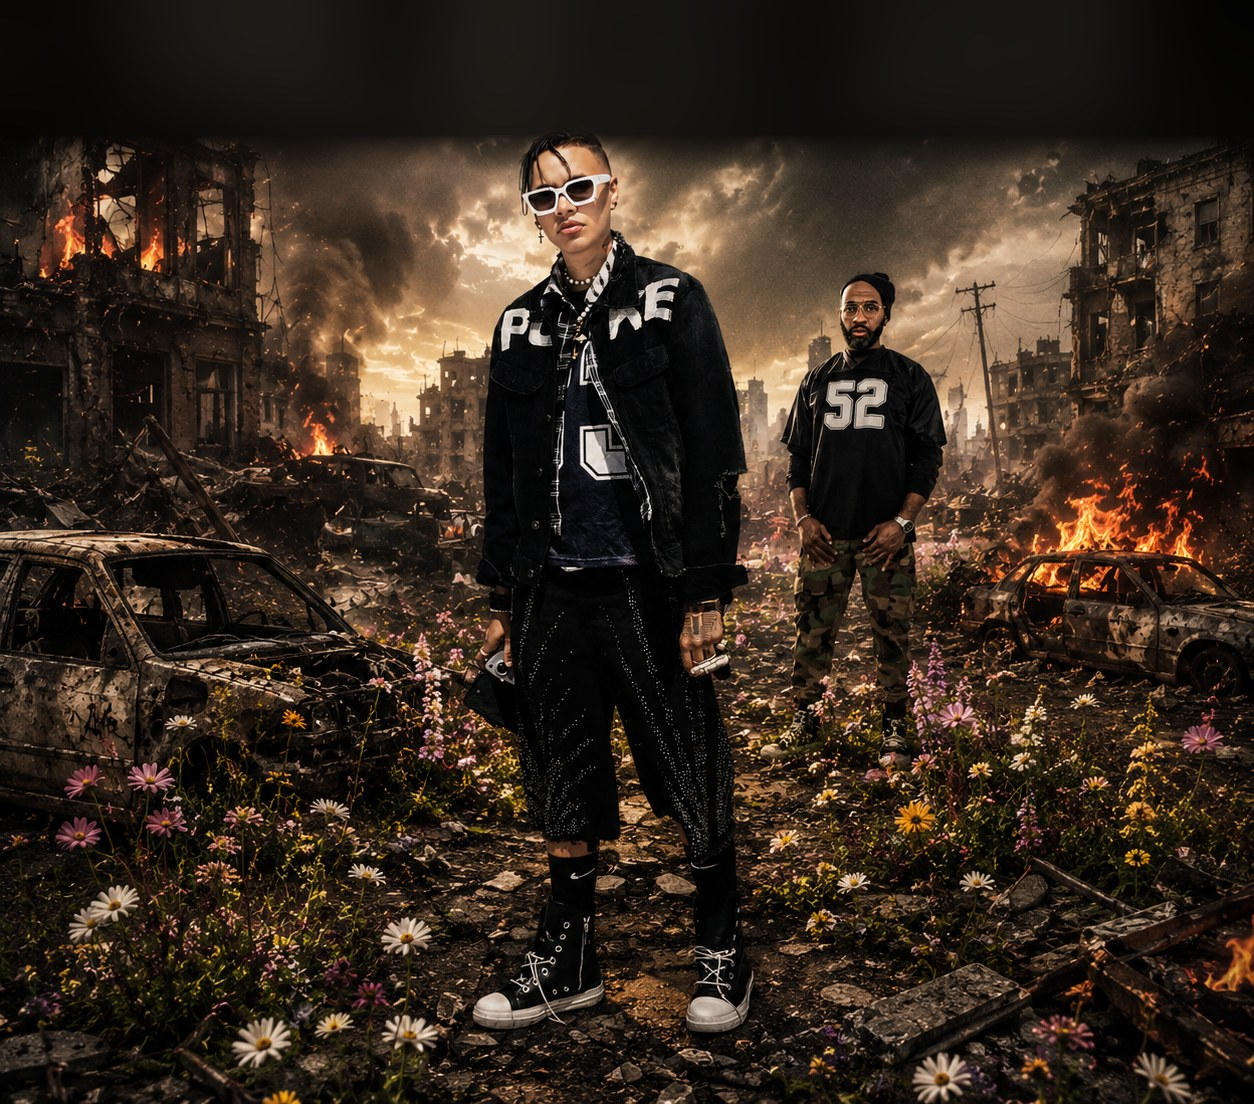
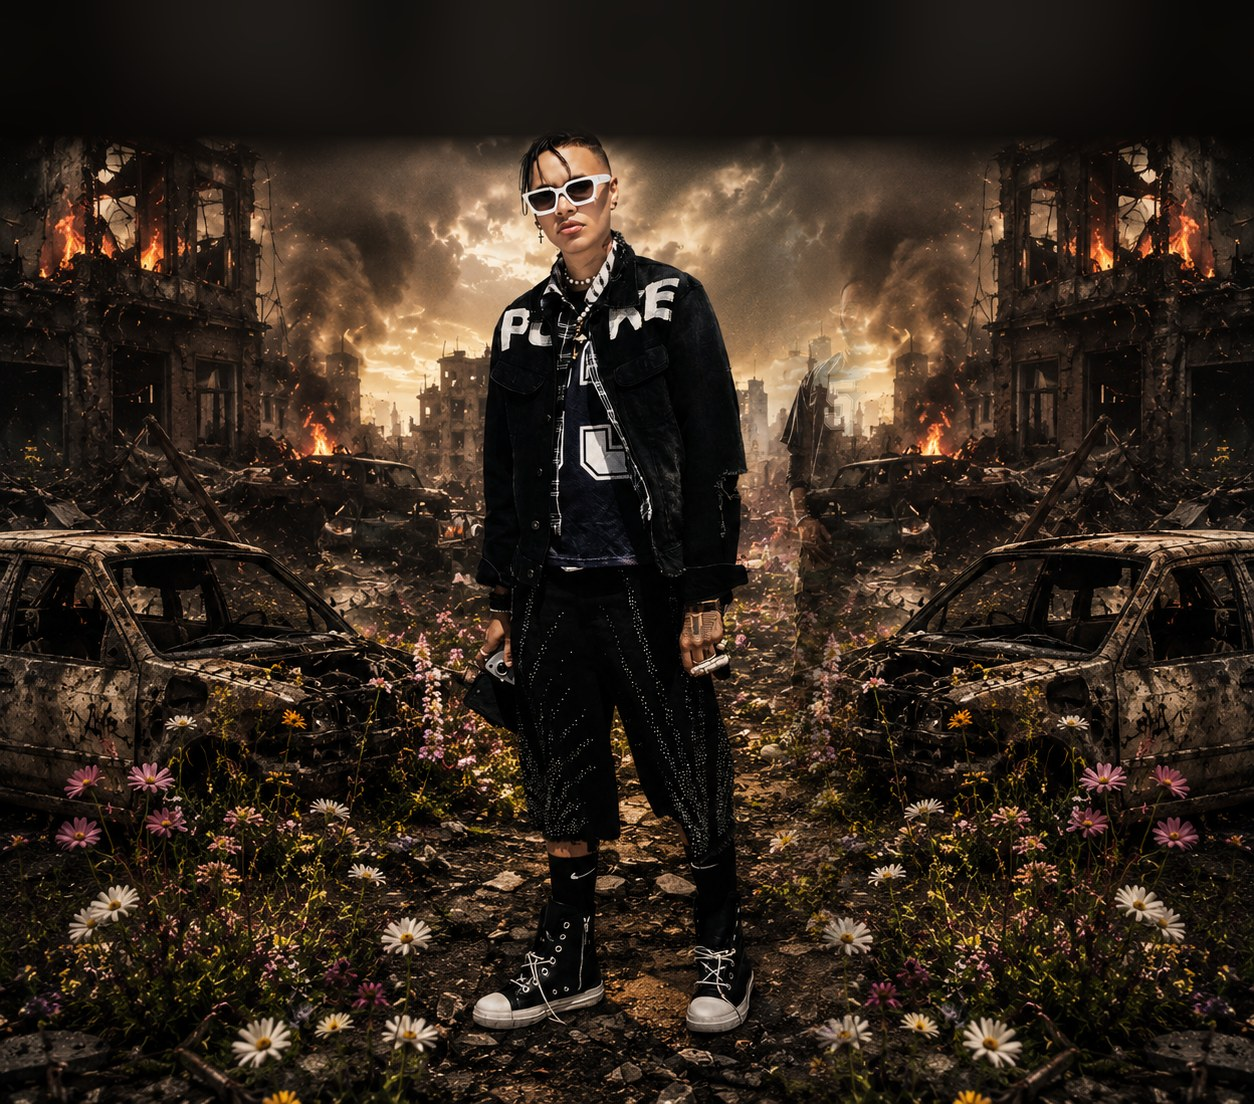
Add files via upload

Changed region(s): [[0.622, 0.1232, 1.0, 1.0]]

diff --git a/index.html b/index.html
@@ -244,7 +244,7 @@
     <h2>Bio</h2>
   </div>
   <div class="bio">
-    <p>Nor Kin4life is HIP POP: old-school roots, new-school flows. A singer, songwriter, emcee and producer from Mount Vernon, New York, she first rocked stages coast to coast as one half of the Hip Hop duo KIN4LIFE, from the Knitting Factory in New York City to the Hard Rock Cafe in the Dominican Republic. Going solo, she took her music to the screen. &ldquo;Full Speed&rdquo; has been featured on Netflix&rsquo;s Rhythm &amp; Flow, Keeping Up With The Kardashians and the League of Legends video game. &ldquo;S.O.S&rdquo; was featured on The CW&rsquo;s All American. She has collaborated with KRS-One, Monifa and Caddy Pack, and draws from Lauryn Hill, Jay-Z, Prince and Britney Spears. She also produces The Seasoning series and is a Recording Academy voting member.</p>
+    <p>Nor Kin4life is HIP POP: old-school roots, new-school flows. A singer, songwriter, emcee and producer from Mount Vernon, New York, she first rocked stages coast to coast as one half of the Hip Hop duo KIN4LIFE, from the Knitting Factory in New York City to the Hard Rock Cafe in the Dominican Republic. Going solo, she took her music to screens everywhere: &ldquo;Full Speed&rdquo; landed on Netflix&rsquo;s Rhythm &amp; Flow, Keeping Up With The Kardashians and the League of Legends video game, and &ldquo;S.O.S&rdquo; on The CW&rsquo;s All American. She has collaborated with KRS-One, Monifa and Caddy Pack, and draws from Lauryn Hill, Jay-Z, Prince and Britney Spears. She also produces The Seasoning series and is a Recording Academy voting member.</p>
   </div>
 </section>
 
